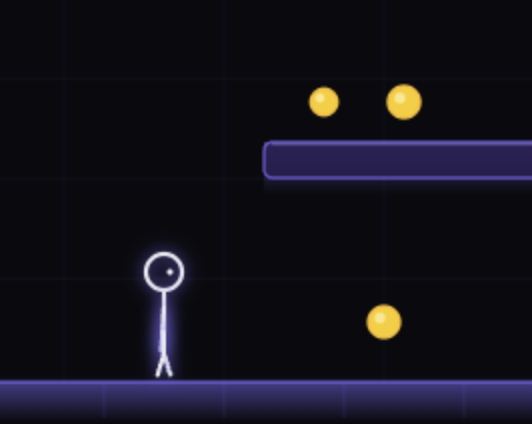
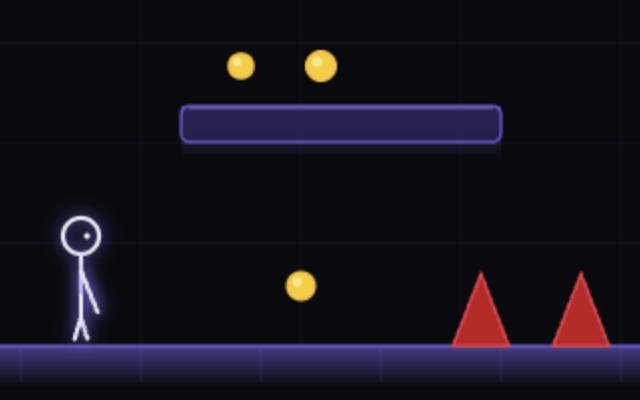
adding thumbnails

diff --git a/index.html b/index.html
@@ -351,7 +351,8 @@
 
       <a href="https://www.vivian-shen.com/research/kinethreads" class="project-card">
         <div class="card-thumb">
-          <div class="card-thumb-placeholder">⊗</div>
+          <!-- <div class="card-thumb-placeholder">⊗</div> -->
+          <img src="./images/kinethreads.png" alt="Photo of the Kinethreads prototype, showing a full-body haptic exosuit with visible motor-pulley mechanisms." />
         </div>
         <div class="card-body">
           <p class="card-tag tag-tech">RESEARCH · Exosuit · Haptics</p>
@@ -365,7 +366,8 @@
 
       <a href="https://www.vivian-shen.com/research/fluid-reality" class="project-card">
         <div class="card-thumb">
-          <div class="card-thumb-placeholder">〜</div>
+          <!-- <div class="card-thumb-placeholder">〜</div> -->
+          <img src="./images/fluidreality.png" alt="Photo of the Fluid Reality prototype, showing a fingertip haptic device with a small fluid reservoir and tubing." />
         </div>
         <div class="card-body">
           <p class="card-tag tag-tech">RESEARCH · Haptics · XR</p>
@@ -379,7 +381,8 @@
 
       <a href="https://www.vivian-shen.com/research/mouthhaptics" class="project-card">
         <div class="card-thumb">
-          <div class="card-thumb-placeholder">◎</div>
+          <!-- <div class="card-thumb-placeholder">◎</div> -->
+          <img src="./images/mouthhaptics.png" alt="Photo of the Mouth Haptics prototype, showing a device for delivering tactile feedback inside the oral cavity." />
         </div>
         <div class="card-body">
           <p class="card-tag tag-tech">RESEARCH · Haptics · XR</p>
@@ -393,7 +396,8 @@
 
       <a href="https://www.vivian-shen.com/research/synjets" class="project-card">
         <div class="card-thumb">
-          <div class="card-thumb-placeholder">≋</div>
+          <!-- <div class="card-thumb-placeholder">≋</div> -->
+          <img src="./images/synjets.png" alt="Photo of the Synthetic Jets prototype, showing wearable actuators for directional airflow feedback." />
         </div>
         <div class="card-body">
           <p class="card-tag tag-tech">RESEARCH · Haptics</p>